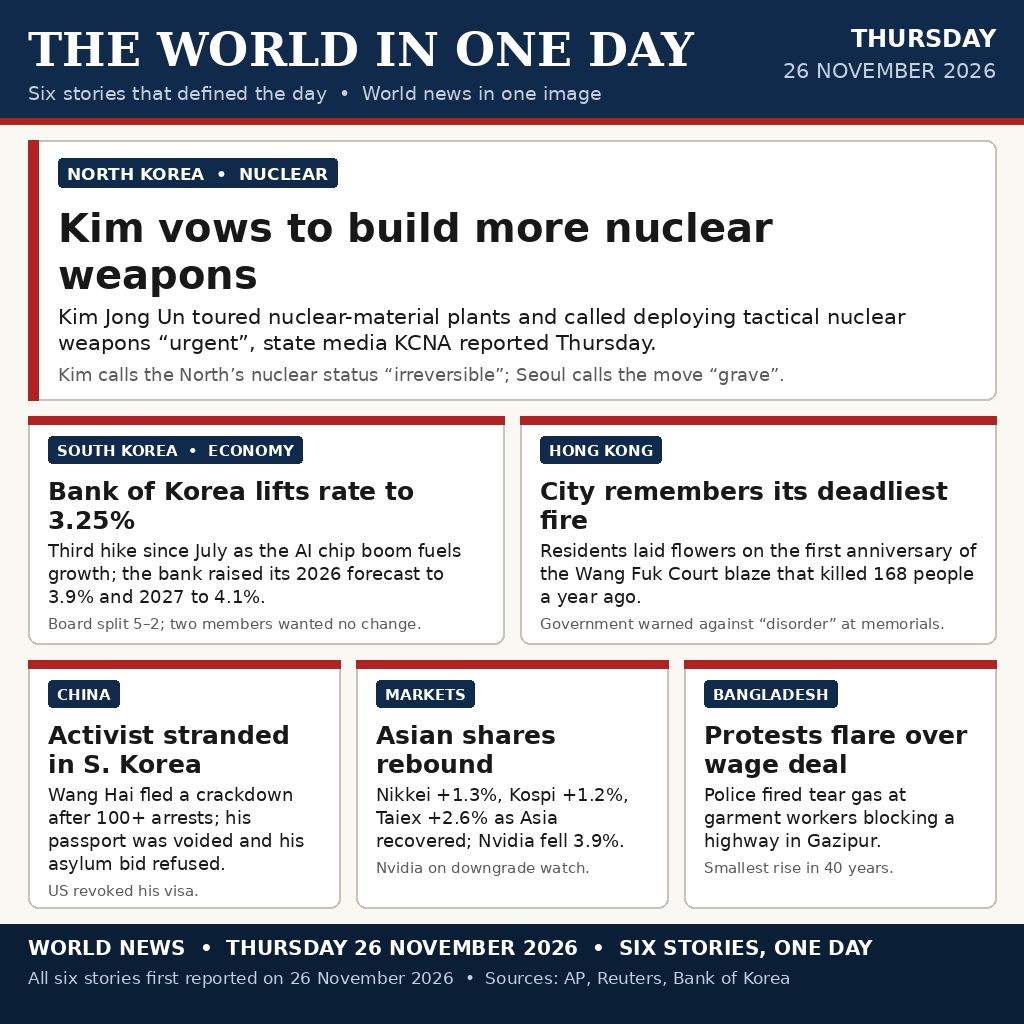
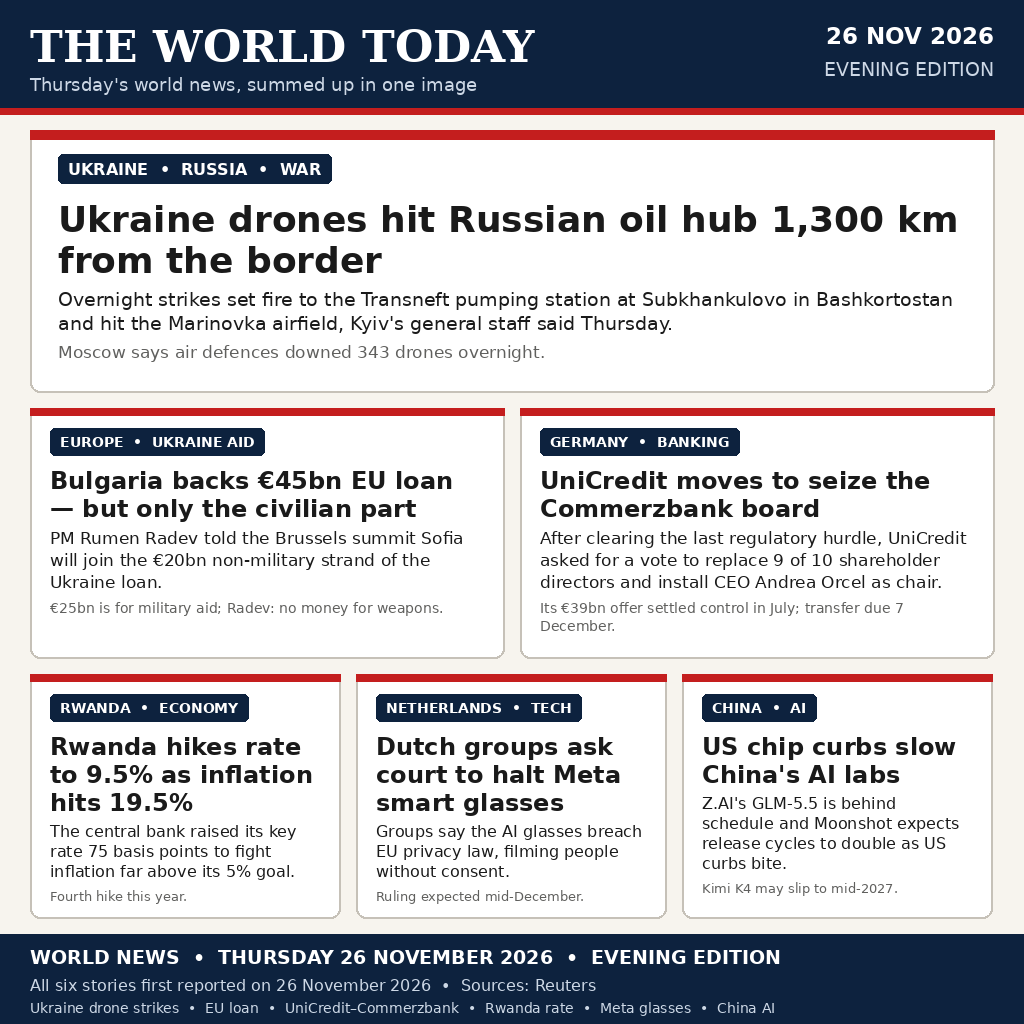
v2 evening refresh: six new 26 Nov stories (Ukraine drones, EU loan, UniCredit, Rwanda, Meta glasses, China AI)

Changed region(s): [[0.0, 0.0, 1.0, 1.0], [0.9688, 0.1562, 1.0, 0.375]]

diff --git a/README.md b/README.md
@@ -8,12 +8,14 @@ Entry for the [make.fun bounty "Sum up 26 November's world news in one
 image"](https://make.fun/bounty/news-image-20261126).
 
 A newspaper front page that sums up Thursday 26 November 2026 in six
-verified stories, each first reported that day: Kim Jong Un's vow to
-build more nuclear weapons, the Bank of Korea lifting its key rate to
-3.25%, Hong Kong marking one year since the Wang Fuk Court fire that
-killed 168, Chinese consumer-rights campaigner Wang Hai stranded in
-South Korea, Asian shares rebounding on AI stocks, and fresh protests
-in Bangladesh after a garment wage deal fell short.
+verified stories, each first reported that day (evening edition, v2
+refresh of the morning entry): Ukraine's overnight drone strikes on a
+Transneft oil hub in Bashkortostan and the Marinovka airfield, Bulgaria
+backing the €45bn EU loan for Ukraine but only its civilian part,
+UniCredit moving to take over the Commerzbank board, Rwanda hiking its
+key rate to 9.5% as inflation hit 19.5%, Dutch groups asking a court to
+halt sales of Meta's AI smart glasses, and US chip curbs slowing
+China's AI labs.
 
 ## How it works
 
